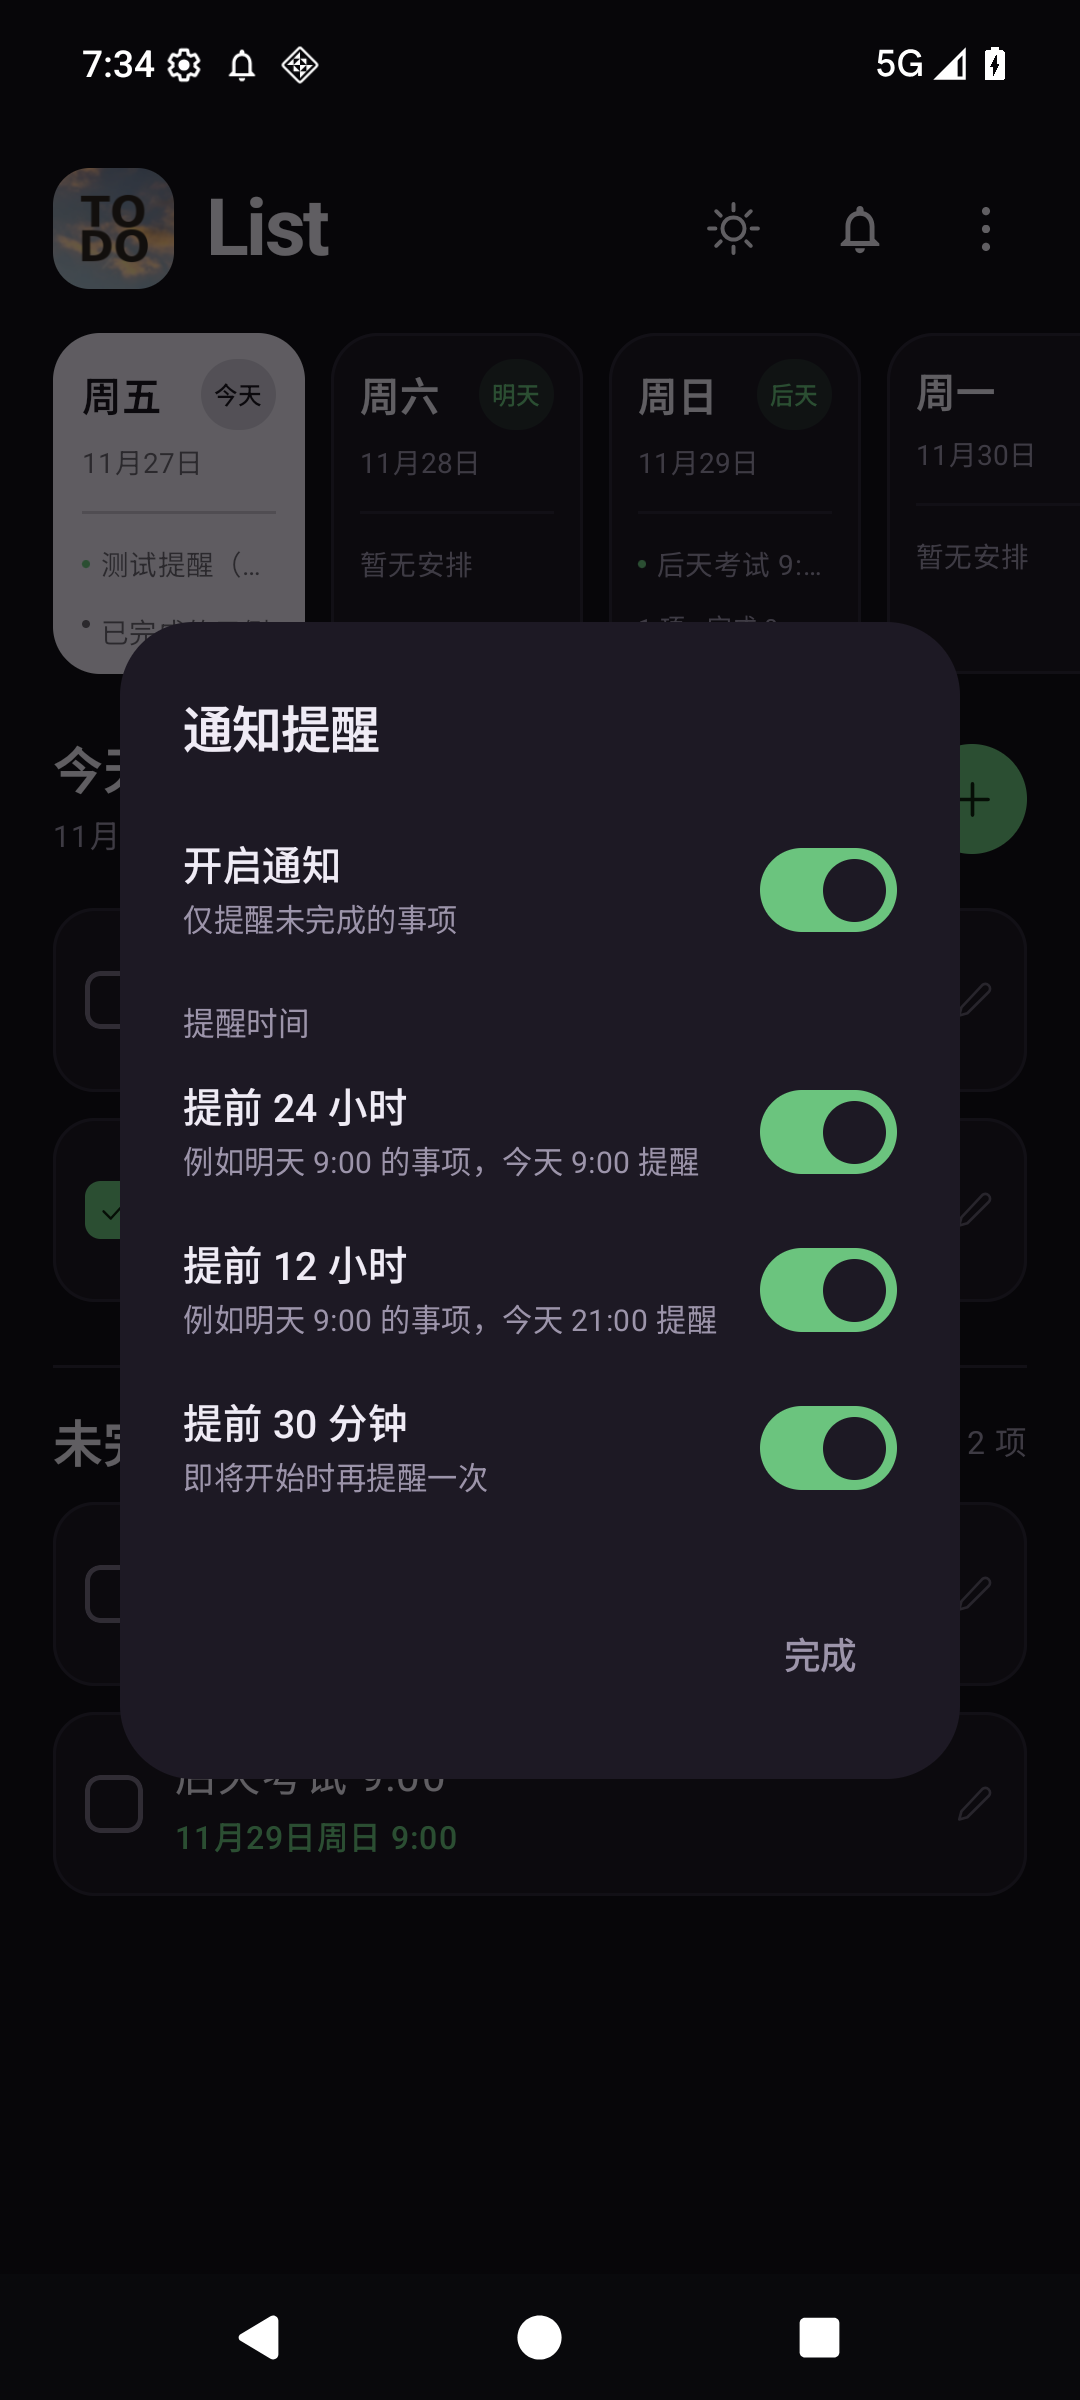
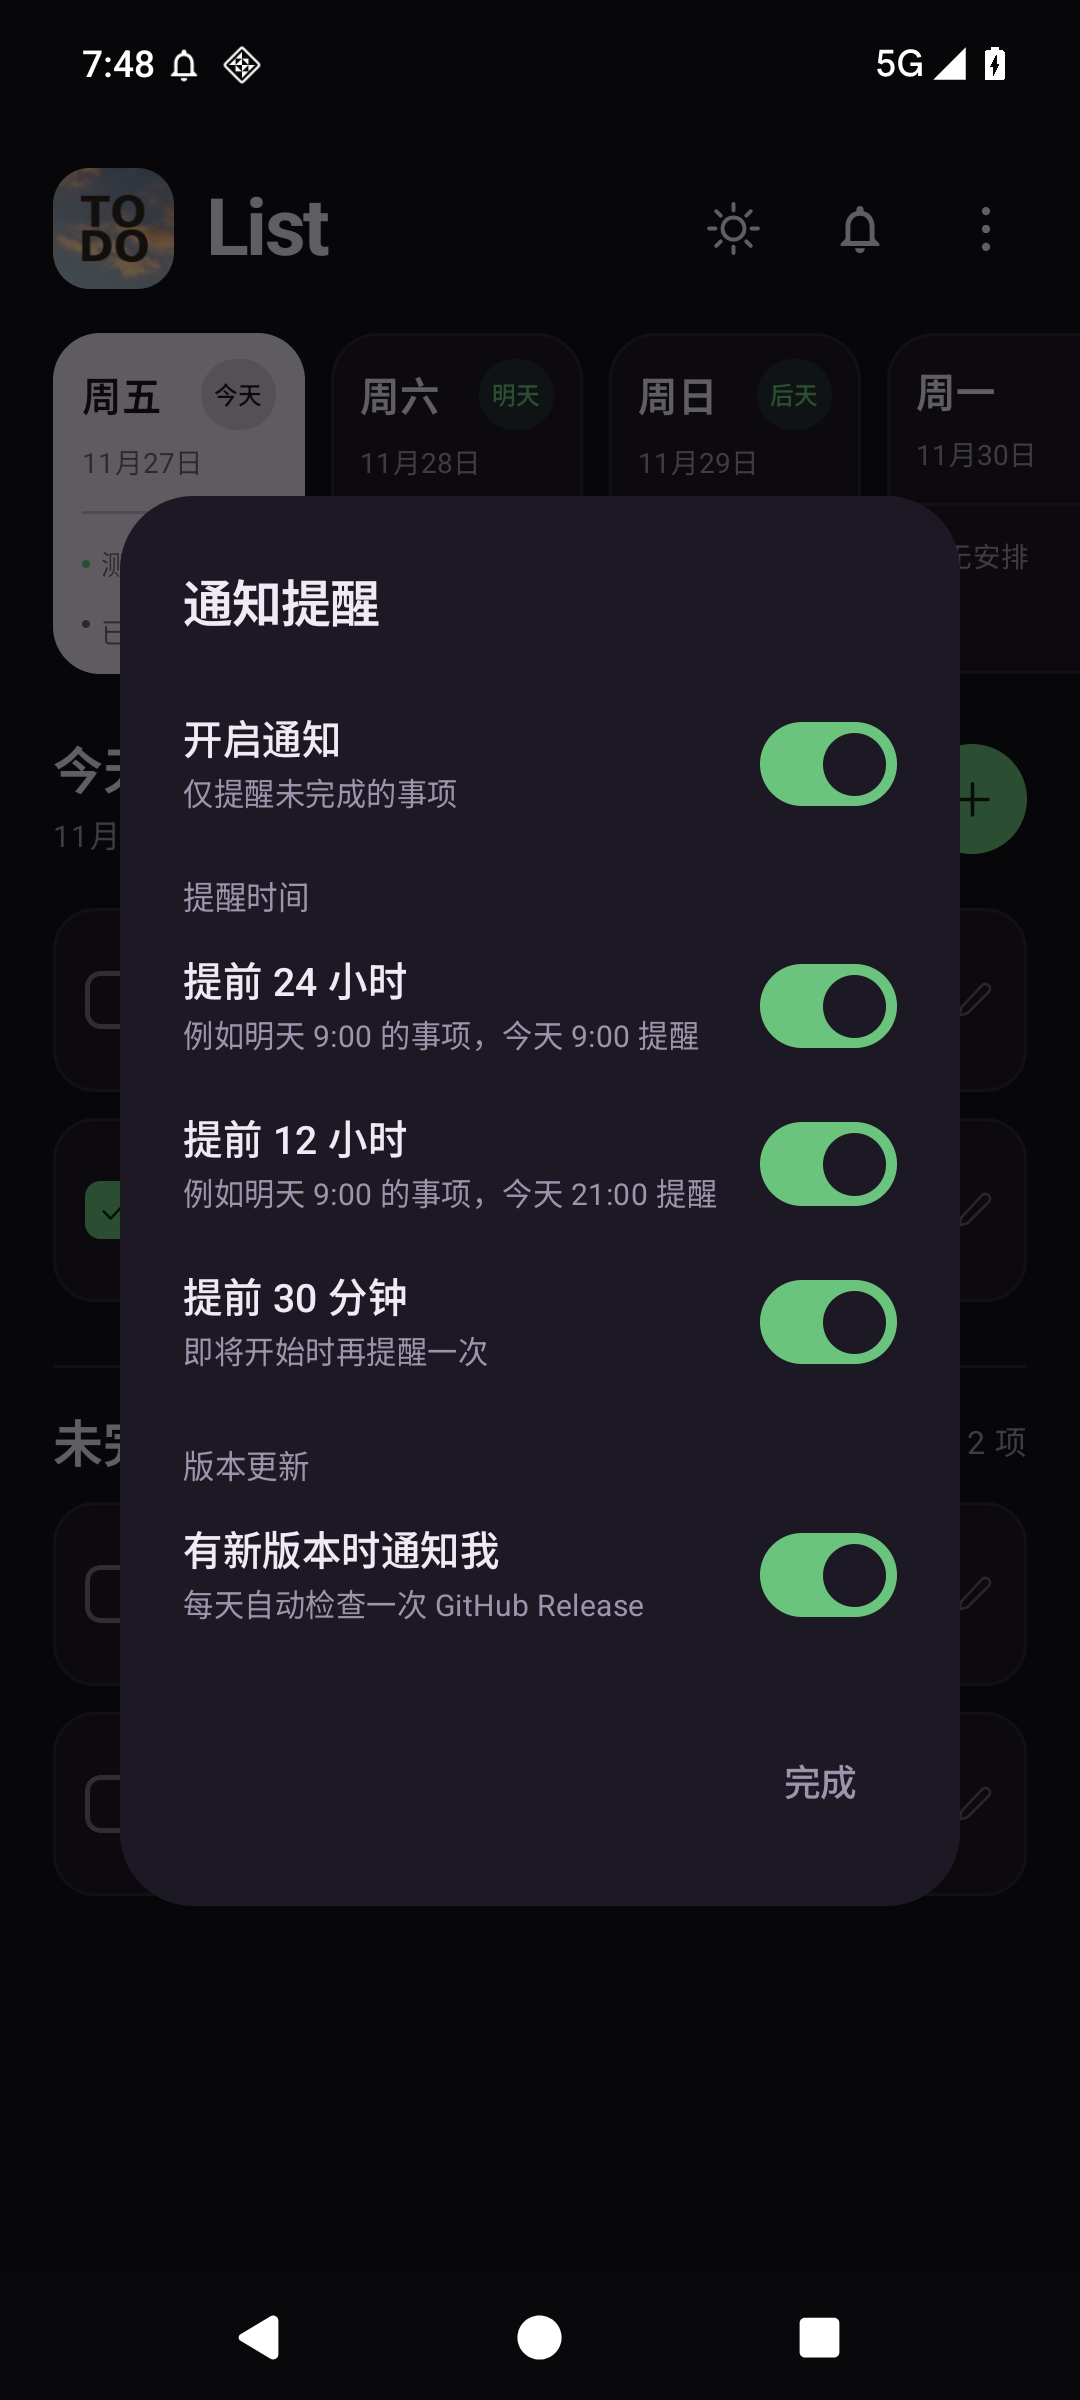
feat(update): 发现新版本时推送通知，每天自动检查（v1.4.0）

diff --git a/app/src/main/java/com/dswork/list/notify/UpdateNotifier.kt b/app/src/main/java/com/dswork/list/notify/UpdateNotifier.kt
@@ -1,0 +1,124 @@
+package com.dswork.list.notify
+
+import android.app.AlarmManager
+import android.app.NotificationChannel
+import android.app.NotificationManager
+import android.app.PendingIntent
+import android.content.Context
+import android.content.Intent
+import android.net.Uri
+import android.os.Build
+import androidx.core.app.NotificationCompat
+import androidx.core.app.NotificationManagerCompat
+import com.dswork.list.R
+import com.dswork.list.data.NotificationPrefs
+import com.dswork.list.data.UpdateChecker
+
+/**
+ * 版本更新推送：
+ * - App 启动时和每天一次的后台任务里检查 GitHub Release；
+ * - 12 小时内最多查一次，同一个新版本只提醒一次；
+ * - 开关在「通知设置 → 版本更新」里，默认开启。
+ */
+object UpdateNotifier {
+
+    const val CHANNEL_ID = "app_updates"
+    const val CHANNEL_NAME = "版本更新"
+    private const val PREFS = "update_notify_prefs"
+    private const val KEY_LAST_CHECK = "last_check"
+    private const val KEY_LAST_VERSION = "last_notified_version"
+    private const val CHECK_INTERVAL_MS = 12L * 60 * 60 * 1000
+
+    fun ensureChannel(context: Context) {
+        if (Build.VERSION.SDK_INT < Build.VERSION_CODES.O) return
+        val manager = context.getSystemService(NotificationManager::class.java) ?: return
+        if (manager.getNotificationChannel(CHANNEL_ID) != null) return
+        val channel = NotificationChannel(
+            CHANNEL_ID,
+            CHANNEL_NAME,
+            NotificationManager.IMPORTANCE_DEFAULT,
+        ).apply {
+            description = "发现新版本时推送到通知栏"
+            enableVibration(false)
+        }
+        manager.createNotificationChannel(channel)
+    }
+
+    /** 每天一次的检查闹钟（不精确，系统会合并唤醒，省电）。 */
+    fun scheduleDailyCheck(context: Context) {
+        val appContext = context.applicationContext
+        val alarmManager = appContext.getSystemService(AlarmManager::class.java) ?: return
+        val pending = PendingIntent.getBroadcast(
+            appContext,
+            REQUEST_CODE,
+            Intent(appContext, UpdateCheckReceiver::class.java),
+            PendingIntent.FLAG_UPDATE_CURRENT or PendingIntent.FLAG_IMMUTABLE,
+        )
+        alarmManager.setInexactRepeating(
+            AlarmManager.RTC_WAKEUP,
+            System.currentTimeMillis() + 6L * 60 * 60 * 1000,
+            AlarmManager.INTERVAL_DAY,
+            pending,
+        )
+    }
+
+    /** 后台检查版本；节流、去重后按需发通知。 */
+    fun checkAndNotify(context: Context) {
+        val appContext = context.applicationContext
+        val prefs = appContext.getSharedPreferences(PREFS, Context.MODE_PRIVATE)
+        val now = System.currentTimeMillis()
+        if (now - prefs.getLong(KEY_LAST_CHECK, 0L) < CHECK_INTERVAL_MS) return
+        prefs.edit().putLong(KEY_LAST_CHECK, now).apply()
+
+        if (!NotificationPrefs(appContext).updateNotifyEnabled) return
+
+        Thread {
+            val info = UpdateChecker.check()
+            val latest = info.latestVersion ?: return@Thread
+            val current = currentVersionName(appContext) ?: return@Thread
+            if (UpdateChecker.compareVersions(latest, current) <= 0) return@Thread
+            if (prefs.getString(KEY_LAST_VERSION, null) == latest) return@Thread
+
+            prefs.edit().putString(KEY_LAST_VERSION, latest).apply()
+            postUpdateNotification(
+                context = appContext,
+                version = latest,
+                url = info.releaseUrl ?: UpdateChecker.RELEASES_URL,
+            )
+        }.start()
+    }
+
+    private fun postUpdateNotification(context: Context, version: String, url: String) {
+        ensureChannel(context)
+        if (!NotificationManagerCompat.from(context).areNotificationsEnabled()) return
+
+        val openRelease = Intent(Intent.ACTION_VIEW, Uri.parse(url)).apply {
+            addFlags(Intent.FLAG_ACTIVITY_NEW_TASK)
+        }
+        val contentIntent = PendingIntent.getActivity(
+            context,
+            REQUEST_CODE,
+            openRelease,
+            PendingIntent.FLAG_UPDATE_CURRENT or PendingIntent.FLAG_IMMUTABLE,
+        )
+
+        val notification = NotificationCompat.Builder(context, CHANNEL_ID)
+            .setSmallIcon(R.drawable.ic_bell)
+            .setContentTitle("List 有新版本 v$version")
+            .setContentText("点按前往 GitHub 查看更新内容并下载")
+            .setPriority(NotificationCompat.PRIORITY_DEFAULT)
+            .setAutoCancel(true)
+            .setContentIntent(contentIntent)
+            .build()
+
+        runCatching {
+            NotificationManagerCompat.from(context).notify(REQUEST_CODE, notification)
+        }
+    }
+
+    private fun currentVersionName(context: Context): String? = runCatching {
+        context.packageManager.getPackageInfo(context.packageName, 0).versionName
+    }.getOrNull()
+
+    private const val REQUEST_CODE = 9527
+}

diff --git a/app/src/main/java/com/dswork/list/data/NotificationPrefs.kt b/app/src/main/java/com/dswork/list/data/NotificationPrefs.kt
@@ -27,6 +27,10 @@ class NotificationPrefs(context: Context) {
     var before30m by mutableStateOf(prefs.getBoolean(KEY_30M, true))
         private set
 
+    /** 发现新版本时是否推送通知（与待办提醒总开关相互独立）。 */
+    var updateNotifyEnabled by mutableStateOf(prefs.getBoolean(KEY_UPDATE_NOTIFY, true))
+        private set
+
     /** 当前开启的提前量（毫秒）。 */
     val enabledOffsets: List<Long>
         get() = buildList {
@@ -55,6 +59,11 @@ class NotificationPrefs(context: Context) {
         prefs.edit().putBoolean(KEY_30M, value).apply()
     }
 
+    fun updateUpdateNotify(value: Boolean) {
+        updateNotifyEnabled = value
+        prefs.edit().putBoolean(KEY_UPDATE_NOTIFY, value).apply()
+    }
+
     companion object {
         const val HOURS_24 = 24L * 60 * 60 * 1000
         const val HOURS_12 = 12L * 60 * 60 * 1000
@@ -64,5 +73,6 @@ class NotificationPrefs(context: Context) {
         private const val KEY_24H = "before_24h"
         private const val KEY_12H = "before_12h"
         private const val KEY_30M = "before_30m"
+        private const val KEY_UPDATE_NOTIFY = "update_notify"
     }
 }

diff --git a/app/src/main/java/com/dswork/list/ui/NotificationSettingsDialog.kt b/app/src/main/java/com/dswork/list/ui/NotificationSettingsDialog.kt
@@ -136,6 +136,21 @@ fun NotificationSettingsDialog(
                         },
                     )
                 }
+                Spacer(Modifier.height(14.dp))
+                Column {
+                    Text(
+                        text = "版本更新",
+                        fontSize = 12.sp,
+                        color = palette.textSecondary,
+                        modifier = Modifier.padding(bottom = 2.dp),
+                    )
+                    SettingSwitchRow(
+                        title = "有新版本时通知我",
+                        subtitle = "每天自动检查一次 GitHub Release",
+                        checked = prefs.updateNotifyEnabled,
+                        onCheckedChange = { prefs.updateUpdateNotify(it) },
+                    )
+                }
                 if (permissionDenied) {
                     Text(
                         text = "通知权限被拒绝，请到系统设置 → 应用 → List → 通知中开启。",

diff --git a/app/src/main/java/com/dswork/list/MainActivity.kt b/app/src/main/java/com/dswork/list/MainActivity.kt
@@ -17,6 +17,7 @@ import androidx.core.view.WindowCompat
 import com.dswork.list.data.NotificationPrefs
 import com.dswork.list.data.TodoStore
 import com.dswork.list.notify.NotificationScheduler
+import com.dswork.list.notify.UpdateNotifier
 import com.dswork.list.ui.HistoryScreen
 import com.dswork.list.ui.HomeScreen
 import com.dswork.list.ui.theme.ListTheme
@@ -36,6 +37,11 @@ class MainActivity : ComponentActivity() {
             NotificationScheduler.sync(applicationContext, store.items, notifications)
         }
         NotificationScheduler.sync(applicationContext, store.items, notifications)
+
+        // 版本更新：每天检查一次；启动时也顺带检查（内部 12 小时节流）
+        UpdateNotifier.ensureChannel(applicationContext)
+        UpdateNotifier.scheduleDailyCheck(applicationContext)
+        UpdateNotifier.checkAndNotify(applicationContext)
 
         setContent {
             val systemDark = isSystemInDarkTheme()

diff --git a/app/src/main/java/com/dswork/list/notify/UpdateCheckReceiver.kt b/app/src/main/java/com/dswork/list/notify/UpdateCheckReceiver.kt
@@ -1,0 +1,13 @@
+package com.dswork.list.notify
+
+import android.content.BroadcastReceiver
+import android.content.Context
+import android.content.Intent
+
+/** 每天一次的版本检查闹钟。 */
+class UpdateCheckReceiver : BroadcastReceiver() {
+
+    override fun onReceive(context: Context, intent: Intent) {
+        UpdateNotifier.checkAndNotify(context)
+    }
+}

diff --git a/app/src/main/java/com/dswork/list/notify/BootReceiver.kt b/app/src/main/java/com/dswork/list/notify/BootReceiver.kt
@@ -19,5 +19,7 @@ class BootReceiver : BroadcastReceiver() {
         val store = TodoStore(appContext)
         val prefs = NotificationPrefs(appContext)
         NotificationScheduler.sync(appContext, store.items, prefs)
+        UpdateNotifier.ensureChannel(appContext)
+        UpdateNotifier.scheduleDailyCheck(appContext)
     }
 }

diff --git a/README.md b/README.md
@@ -44,12 +44,17 @@
 - 打开总开关时按需申请 Android 13+ 通知权限；没有精确闹钟权限时会退化为普通闹钟（±10 分钟窗口）；
 - 事项增删改、勾选完成、删除后立即重排所有提醒；重启手机后由 `BOOT_COMPLETED` 自动恢复。
 
-**7. 关于 / 检查更新**
+**7. 版本更新推送**
+- App 启动时以及每天一次的后台检查会读取 GitHub Release 最新版本（12 小时节流，同一个版本只提醒一次）；
+- 发现新版本时推送通知「List 有新版本 vX.Y.Z」，点按直接打开 Release 页面下载；
+- 可在「通知提醒 → 版本更新」里单独关闭（默认开启），与待办提醒总开关互不影响。
+
+**8. 关于 / 检查更新**
 - 三点菜单 → 关于：应用图标、版本号、简介、**GitHub 仓库地址**（可点击跳转浏览器）；
 - **检查更新**按钮会读取 GitHub Releases 上最新的 release 版本号：一致时提示「已是最新版本」，有新版时显示版本号并给出「前往下载新版本」入口，网络异常/无发布时给出对应提示；
 - 版本检查优先走 `releases/latest` 的网页重定向（不消耗 GitHub API 限额），失败再回退到 REST API，避免匿名 60 次/小时限流导致误报。
 
-**8. 数据**
+**9. 数据**
 - 使用 `SharedPreferences + JSON` 本地保存，不联网（只有「检查更新」会访问 GitHub API），进程被杀后数据仍在；
 - 通知提醒完全本地（AlarmManager + 通知渠道），除系统通知/重启权限外不申请敏感权限。
 
@@ -58,6 +63,10 @@
 | 通知提醒设置（浅色） | 通知提醒设置（深色） | 到点提醒 |
 | --- | --- | --- |
 | ![通知设置](screenshots/12_notification_settings.png) | ![通知设置-深色](screenshots/14_notification_settings_dark.png) | ![通知](screenshots/13_notification.png) |
+
+| 版本更新推送 |
+| --- |
+| ![版本更新推送](screenshots/15_update_push.png) |
 
 | 三点菜单 | 历史日程 | 关于 |
 | --- | --- | --- |
@@ -98,7 +107,7 @@ python make_icons.py \
 | 构建 | AGP 9.5.3 / Gradle 9.6.0 / JDK 17 字节码 |
 | SDK | compileSdk 37.2、targetSdk 37、minSdk 26（Android 8.0+） |
 | 依赖 | Compose BOM 2026.11.01 + activity-compose + core-ktx（无第三方网络库） |
-| 版本 | versionCode 7 / versionName 1.3.0 |
+| 版本 | versionCode 8 / versionName 1.4.0 |
 
 ## 目录结构
 
@@ -147,4 +156,5 @@ APK 见 [Releases](https://github.com/ssyPromax/ToDoList/releases)。
 - 勾选后划掉并更新「已完成」计数；重启进程后数据、主题均保留；
 - 三点菜单、历史日程（过去的安排按日期归档）、关于页与检查更新（GitHub API 返回「无发布 / 已是最新 / 有新版」三种状态均验证）；
 - 通知提醒：铃铛 → 设置页开关、Android 13 通知权限申请、四个开关持久化；AlarmManager 实测排出了 24h/12h/30m 三个精确闹钟，到点收到「待办提醒 · 还有 30 分钟」通知；已完成事项不排提醒；
+- 版本更新推送：临时发布 v1.9.9 后启动 App，实测收到「List 有新版本 v1.9.9」通知，点按可跳转 Release；每日检查闹钟（24h 重复）已注册；临时 Release 验证后已删除；
 - 启动器与应用抽屉中的 List 图标正确显示。
